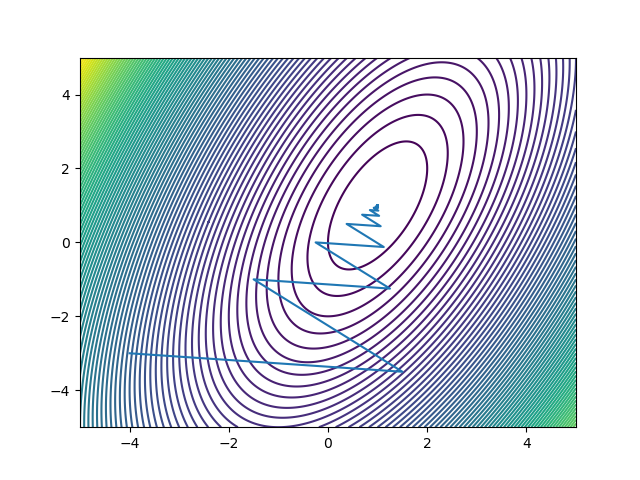
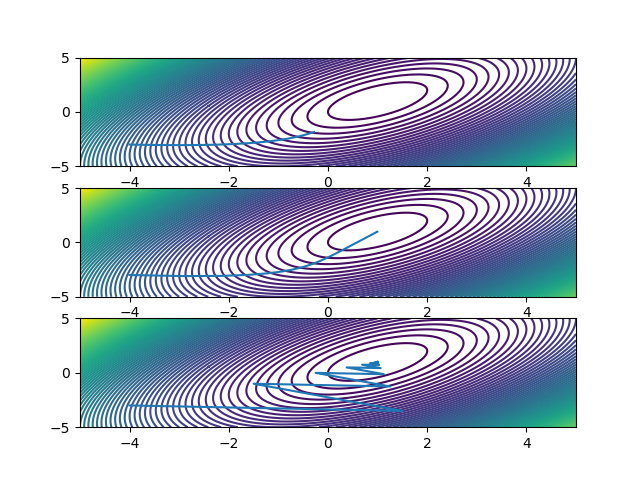
gd a可変 成功

diff --git a/system2_1.py b/system2_1.py
@@ -25,7 +25,7 @@ x_star = np.array([
 
 x = np.zeros((2,1),dtype = np.float64)
 
-a_gd = [0.01, 0.1, 0.5]
+a_gd_list = [0.01, 0.1, 0.5]
 
 def J(x):
 
@@ -62,28 +62,66 @@ def main():
     X, Y = np.meshgrid(x_j, y_j)
     Z = 3/2*X**2 + 1/2*Y**2 - X*Y - 2*X
     
-    x_data = [x0[0][0]]
-    y_data = [x0[1][0]]
+    #x_data = [x0[0][0]]
+    #y_data = [x0[1][0]]
     
-    x = x0.copy()
+    x_data = [[x0[0][0]] for i in range(len(a_gd_list))]
+    y_data = [[x0[1][0]] for i in range(len(a_gd_list))]
     
-    for i in tqdm(range(100)):
+    
+    
+    #x = x0.copy()
+    
+    # for i in tqdm(range(100)):
         
-        x += gradient_descent(a_gd, x)
+    #     x += gradient_descent(a_gd, x)
         
-        x_data.append(x[0][0])
-        y_data.append(x[1][0])
+    #     x_data.append(x[0][0])
+    #     y_data.append(x[1][0])
         
+    #     print(x)
+    
+    i_gd = 0
+        
+    for a_gd in a_gd_list:
+        
+        x = x0.copy()
+        
+        print(a_gd)
         print(x)
         
-    fig = plt.figure()
-    ax  = fig.add_subplot(1,1,1)
+        for i in tqdm(range(100)):
+            
+            x += gradient_descent(a_gd, x)
+            
+            x_data[i_gd].append(x[0][0])
+            y_data[i_gd].append(x[1][0])
+            
+            #print(x)
+            
+        i_gd += 1
+        
+    for j in range(3):
+        print(len(x_data[j]))
+        print(len(y_data[j]))
+        print(x_data[j][0])
+        print(y_data[j][0])
     
-    ax.plot(x_data, y_data)
-    ax.contour(X, Y, Z, 100)
+    fig = plt.figure()
+    ax1  = fig.add_subplot(3,1,1)
+    ax2  = fig.add_subplot(3,1,2)
+    ax3  = fig.add_subplot(3,1,3)
+    
+    ax1.plot(x_data[0], y_data[0])
+    ax2.plot(x_data[1], y_data[1])
+    ax3.plot(x_data[2], y_data[2])
+    
+    ax1.contour(X, Y, Z, 100)
+    ax2.contour(X, Y, Z, 100)
+    ax3.contour(X, Y, Z, 100)
     
     fig.savefig("fig_gd.png")
-        
+    
     
 
     return

diff --git a/test.py b/test.py
@@ -1,1 +1,19 @@
-print("hoge2")
+from re import A
+
+
+a_gd_list = [0.01, 0.1, 0.5]
+
+#data = [[],[],[]]
+
+
+#data =[[] for i in range(5)]
+
+data = [[] for i in range(len(a_gd_list))]
+
+data[0].append(0)
+
+print(data)
+
+for a_gd in a_gd_list:
+    
+    print(a_gd)
